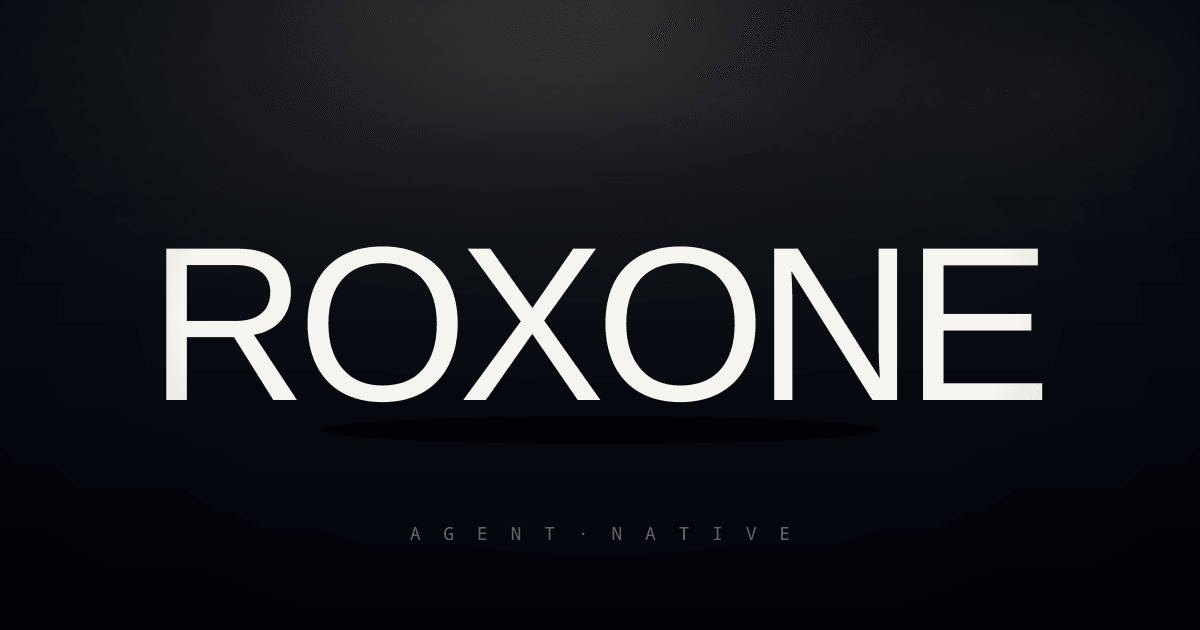
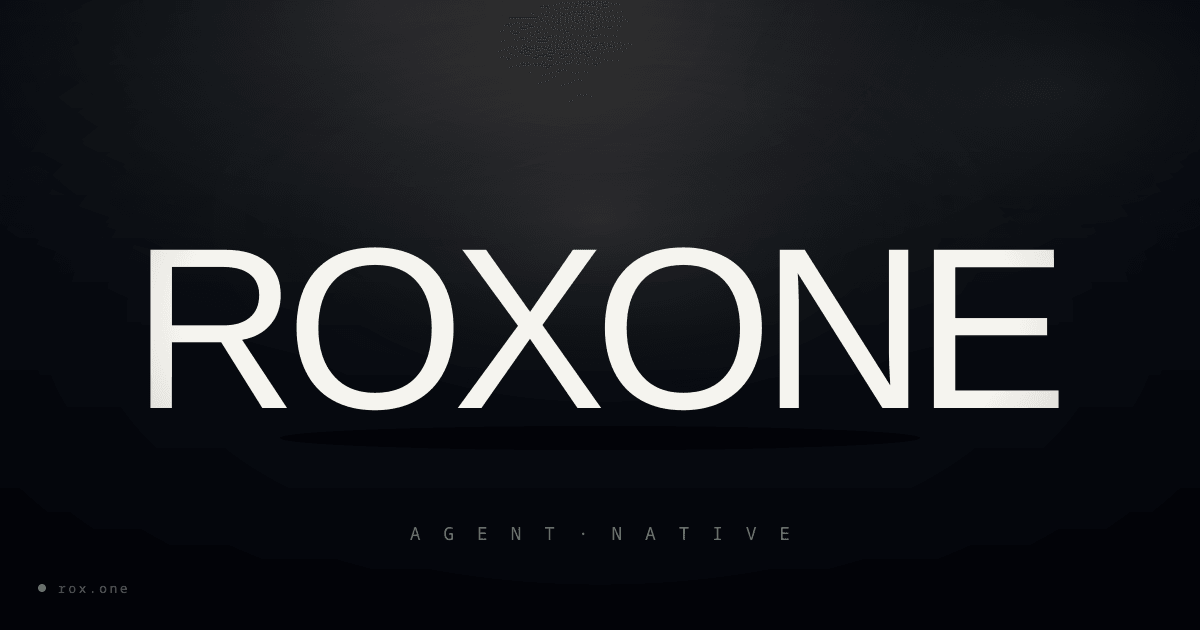
feat: build-time version baking + Konami audio ping
Version pipeline:
- gatsby-config.js reads .cache/rox-release.json at config-eval time
  and exposes the tag through siteMetadata.version. Falls back to
  hardcoded 'v0.9.2' on first build before onPreBootstrap populates
  the cache.
- src/pages/index.tsx pulls siteMetadata.version via useStaticQuery
  and seeds the version state with it. JSON-LD softwareVersion now
  ships in the static SSG HTML — social shares, search bots, link
  previews all see the real version without waiting for client-side
  fetch.
- scripts/build-assets.js reads the same cache and embeds the
  uppercase release tag into the OG image footer:
  "AGENT · NATIVE · V0.9.2". The OG also gained a bottom-left
  mint-dot + rox.one wordmark that mirrors the live-pill on the page.

Two-build coherency: a fresh release tag becomes visible in OG and
JSON-LD on the *next* build after onPreBootstrap fetches it. We accept
that one-cycle lag in exchange for zero runtime API calls during
critical-path render.

Konami audio:
- Successful ↑↑↓↓←→←→ba sequence now also plays an 880Hz sine ping:
  20ms attack, 450ms exponential decay, 0.05 peak gain. Created lazily
  via AudioContext, closed via osc.onended → ctx.close() so we don't
  accumulate audio contexts across triggers. Respects
  prefers-reduced-motion (which we treat as a proxy for "user wants
  less stimulation"). Wrapped in try/catch — audio is decorative; on
  iOS Safari quirks the visual invert still fires.

diff --git a/scripts/build-assets.js b/scripts/build-assets.js
@@ -5,19 +5,30 @@
  *   - static/apple-touch-icon.png (iOS home-screen)
  *   - static/og/default.png (1200×630, social share preview)
  *
- * Why a custom script: gatsby-plugin-manifest generates PNGs from a *PNG* source,
- * not from SVG. We want SVG as truth (one file edits the brand mark everywhere),
- * so sharp rasterises on every build instead. Reproducible, no manual export.
+ * The OG image picks up the latest release tag from .cache/rox-release.json
+ * (written by gatsby-node onPreBootstrap on the previous build) so the
+ * social preview shows the version even before JS runs. Falls back
+ * gracefully if no cache exists yet.
  */
 
 const fs = require('fs')
 const path = require('path')
 const sharp = require('sharp')
 
-const STATIC = path.join(__dirname, '..', 'static')
+const ROOT = path.join(__dirname, '..')
+const STATIC = path.join(ROOT, 'static')
 const OG_DIR = path.join(STATIC, 'og')
+const RELEASE_CACHE = path.join(ROOT, '.cache', 'rox-release.json')
 
 fs.mkdirSync(OG_DIR, { recursive: true })
+
+let releaseTag = ''
+try {
+    const j = JSON.parse(fs.readFileSync(RELEASE_CACHE, 'utf8'))
+    releaseTag = j.tag_name || ''
+} catch {
+    /* first build — no cache yet, fall back to blank */
+}
 
 /* ── Square icon — derived from the existing static/icon.svg ────────────────
    Solid-fill version so it renders cleanly at 192/512/180px. */
@@ -63,16 +74,16 @@ const OG_SVG = `<?xml version="1.0" encoding="UTF-8"?>
       <stop offset="100%" stop-color="rgba(0,0,0,0)"/>
     </radialGradient>
     <radialGradient id="og-aurora" cx="88%" cy="14%" r="30%">
-      <stop offset="0%" stop-color="rgba(108,200,178,0.08)"/>
+      <stop offset="0%" stop-color="rgba(108,200,178,0.10)"/>
+      <stop offset="100%" stop-color="rgba(0,0,0,0)"/>
+    </radialGradient>
+    <radialGradient id="og-bloom" cx="50%" cy="35%" r="38%">
+      <stop offset="0%" stop-color="rgba(255,248,232,0.10)"/>
       <stop offset="100%" stop-color="rgba(0,0,0,0)"/>
     </radialGradient>
     <radialGradient id="og-vignette" cx="50%" cy="50%" r="70%">
       <stop offset="50%" stop-color="rgba(0,0,0,0)"/>
       <stop offset="100%" stop-color="rgba(0,0,0,0.45)"/>
-    </radialGradient>
-    <radialGradient id="og-shadow" cx="50%" cy="68%" r="40%" fx="50%" fy="68%">
-      <stop offset="0%" stop-color="rgba(0,0,0,0.5)"/>
-      <stop offset="100%" stop-color="rgba(0,0,0,0)"/>
     </radialGradient>
   </defs>
 
@@ -80,27 +91,41 @@ const OG_SVG = `<?xml version="1.0" encoding="UTF-8"?>
   <rect width="1200" height="630" fill="url(#og-key-warm)"/>
   <rect width="1200" height="630" fill="url(#og-key-cool)"/>
   <rect width="1200" height="630" fill="url(#og-aurora)"/>
+  <rect width="1200" height="630" fill="url(#og-bloom)"/>
 
   <!-- Ground shadow ellipse under wordmark -->
-  <ellipse cx="600" cy="430" rx="280" ry="14" fill="rgba(0,0,0,0.55)"/>
+  <ellipse cx="600" cy="438" rx="320" ry="12" fill="rgba(0,0,0,0.6)"/>
 
-  <!-- Wordmark — solid white, generous tracking, sits centered -->
-  <text x="600" y="400"
+  <!-- Wordmark — solid off-white, generous tracking, sits centered -->
+  <text x="600" y="408"
         text-anchor="middle"
         font-family="-apple-system, 'Segoe UI', Arial, sans-serif"
         font-weight="500"
-        font-size="220"
-        letter-spacing="-10"
+        font-size="230"
+        letter-spacing="-12"
         fill="#F5F4EF">ROXONE</text>
 
-  <!-- Footnote signature, mono lowercase -->
+  <!-- Footnote signature, mono lowercase, with version when known -->
   <text x="600" y="540"
         text-anchor="middle"
         font-family="ui-monospace, 'SF Mono', Menlo, Consolas, monospace"
         font-weight="400"
         font-size="18"
         letter-spacing="6"
-        fill="rgba(155,155,149,0.7)">A G E N T  ·  N A T I V E</text>
+        fill="rgba(155,155,149,0.75)">${
+            releaseTag
+                ? `A G E N T   ·   N A T I V E   ·   ${releaseTag.toUpperCase()}`
+                : 'A G E N T   ·   N A T I V E'
+        }</text>
+
+  <!-- Bottom-left mint dot + rox.one wordmark, mirroring the live-pill -->
+  <circle cx="42" cy="588" r="4" fill="#5EFFB0"/>
+  <text x="58" y="593"
+        font-family="ui-monospace, 'SF Mono', Menlo, Consolas, monospace"
+        font-weight="500"
+        font-size="13"
+        letter-spacing="2.5"
+        fill="rgba(155,155,149,0.85)">rox.one</text>
 
   <rect width="1200" height="630" fill="url(#og-vignette)"/>
 </svg>`
@@ -116,6 +141,7 @@ async function rasterise(svgString, outFile, width, height) {
 
 ;(async () => {
     console.log('[build-assets] rasterising icons + OG ...')
+    if (releaseTag) console.log(`[build-assets] embedding release ${releaseTag} in OG`)
     await rasterise(ICON_SVG, path.join(STATIC, 'icon-192.png'), 192, 192)
     await rasterise(ICON_SVG, path.join(STATIC, 'icon-512.png'), 512, 512)
     await rasterise(ICON_SVG, path.join(STATIC, 'apple-touch-icon.png'), 180, 180)

diff --git a/src/pages/index.tsx b/src/pages/index.tsx
@@ -1,4 +1,5 @@
 import React, { useEffect, useRef, useState } from 'react'
+import { graphql, useStaticQuery } from 'gatsby'
 import { Helmet as HelmetUntyped } from 'react-helmet'
 
 const Helmet = HelmetUntyped as unknown as React.ComponentType<any>
@@ -64,12 +65,25 @@ const KONAMI = [
 ]
 
 export default function Index(): JSX.Element {
+    // Build-time version from siteMetadata (set in gatsby-config from .cache/rox-release.json).
+    // The runtime fetch below replaces it if a newer release surfaces.
+    const data = useStaticQuery(graphql`
+        query {
+            site {
+                siteMetadata {
+                    version
+                }
+            }
+        }
+    `)
+    const buildVersion: string = data?.site?.siteMetadata?.version || 'v0.9.2'
+
     const [mode, setMode] = useState<Mode>('day')
     const [prevMode, setPrevMode] = useState<Mode>('day')
     const [transitionStart, setTransitionStart] = useState<number | null>(null)
     const [showInfo, setShowInfo] = useState(false)
     const [updateAvailable, setUpdateAvailable] = useState(false)
-    const [version, setVersion] = useState<string>('v0.9.2')
+    const [version, setVersion] = useState<string>(buildVersion)
 
     const stateRef = useRef({ mode, prevMode, transitionStart })
     const reducedRef = useRef(false)
@@ -364,6 +378,30 @@ export default function Index(): JSX.Element {
                 root.classList.add('konami-invert')
                 if (konamiTimer) clearTimeout(konamiTimer)
                 konamiTimer = setTimeout(() => root.classList.remove('konami-invert'), 5000)
+
+                // Short sine-wave ping — created lazily, torn down after one shot.
+                // Wrapped in try/catch because Safari < 14.1 doesn't allow AudioContext
+                // creation in some keyboard handlers; we ignore those silently.
+                try {
+                    const AC = window.AudioContext || (window as any).webkitAudioContext
+                    if (AC && !reducedRef.current) {
+                        const ctx = new AC()
+                        const osc = ctx.createOscillator()
+                        const gain = ctx.createGain()
+                        osc.connect(gain)
+                        gain.connect(ctx.destination)
+                        osc.type = 'sine'
+                        osc.frequency.value = 880
+                        gain.gain.setValueAtTime(0, ctx.currentTime)
+                        gain.gain.linearRampToValueAtTime(0.05, ctx.currentTime + 0.02)
+                        gain.gain.exponentialRampToValueAtTime(0.0001, ctx.currentTime + 0.45)
+                        osc.start()
+                        osc.stop(ctx.currentTime + 0.5)
+                        osc.onended = () => ctx.close().catch(() => {})
+                    }
+                } catch {
+                    /* audio is decorative; ignore failures */
+                }
             }
 
             // Type-"rox" easter egg — single-char keys only, triggers instant bloom

diff --git a/gatsby-config.js b/gatsby-config.js
@@ -1,6 +1,22 @@
 require('dotenv').config({ path: `.env.${process.env.NODE_ENV}.local` })
 require('dotenv').config({ path: `.env.${process.env.NODE_ENV}` })
 
+const fs = require('fs')
+const path = require('path')
+
+// Pull the release tag baked by the previous build's onPreBootstrap (or fall
+// back to a hardcoded version if no cache exists yet). This way JSON-LD,
+// meta tags, and any siteMetadata consumer get the version at build time.
+let buildTimeVersion = 'v0.9.2'
+try {
+    const cache = JSON.parse(
+        fs.readFileSync(path.join(__dirname, '.cache', 'rox-release.json'), 'utf8'),
+    )
+    if (cache.tag_name) buildTimeVersion = cache.tag_name
+} catch {
+    /* first build — fall back to literal */
+}
+
 module.exports = {
     flags: { DEV_SSR: false },
     siteMetadata: {
@@ -12,6 +28,7 @@ module.exports = {
         image: '/og/default.png',
         twitterUsername: '@rox_one',
         siteUrl: 'https://rox.one',
+        version: buildTimeVersion,
     },
     trailingSlash: 'always',
     plugins: [